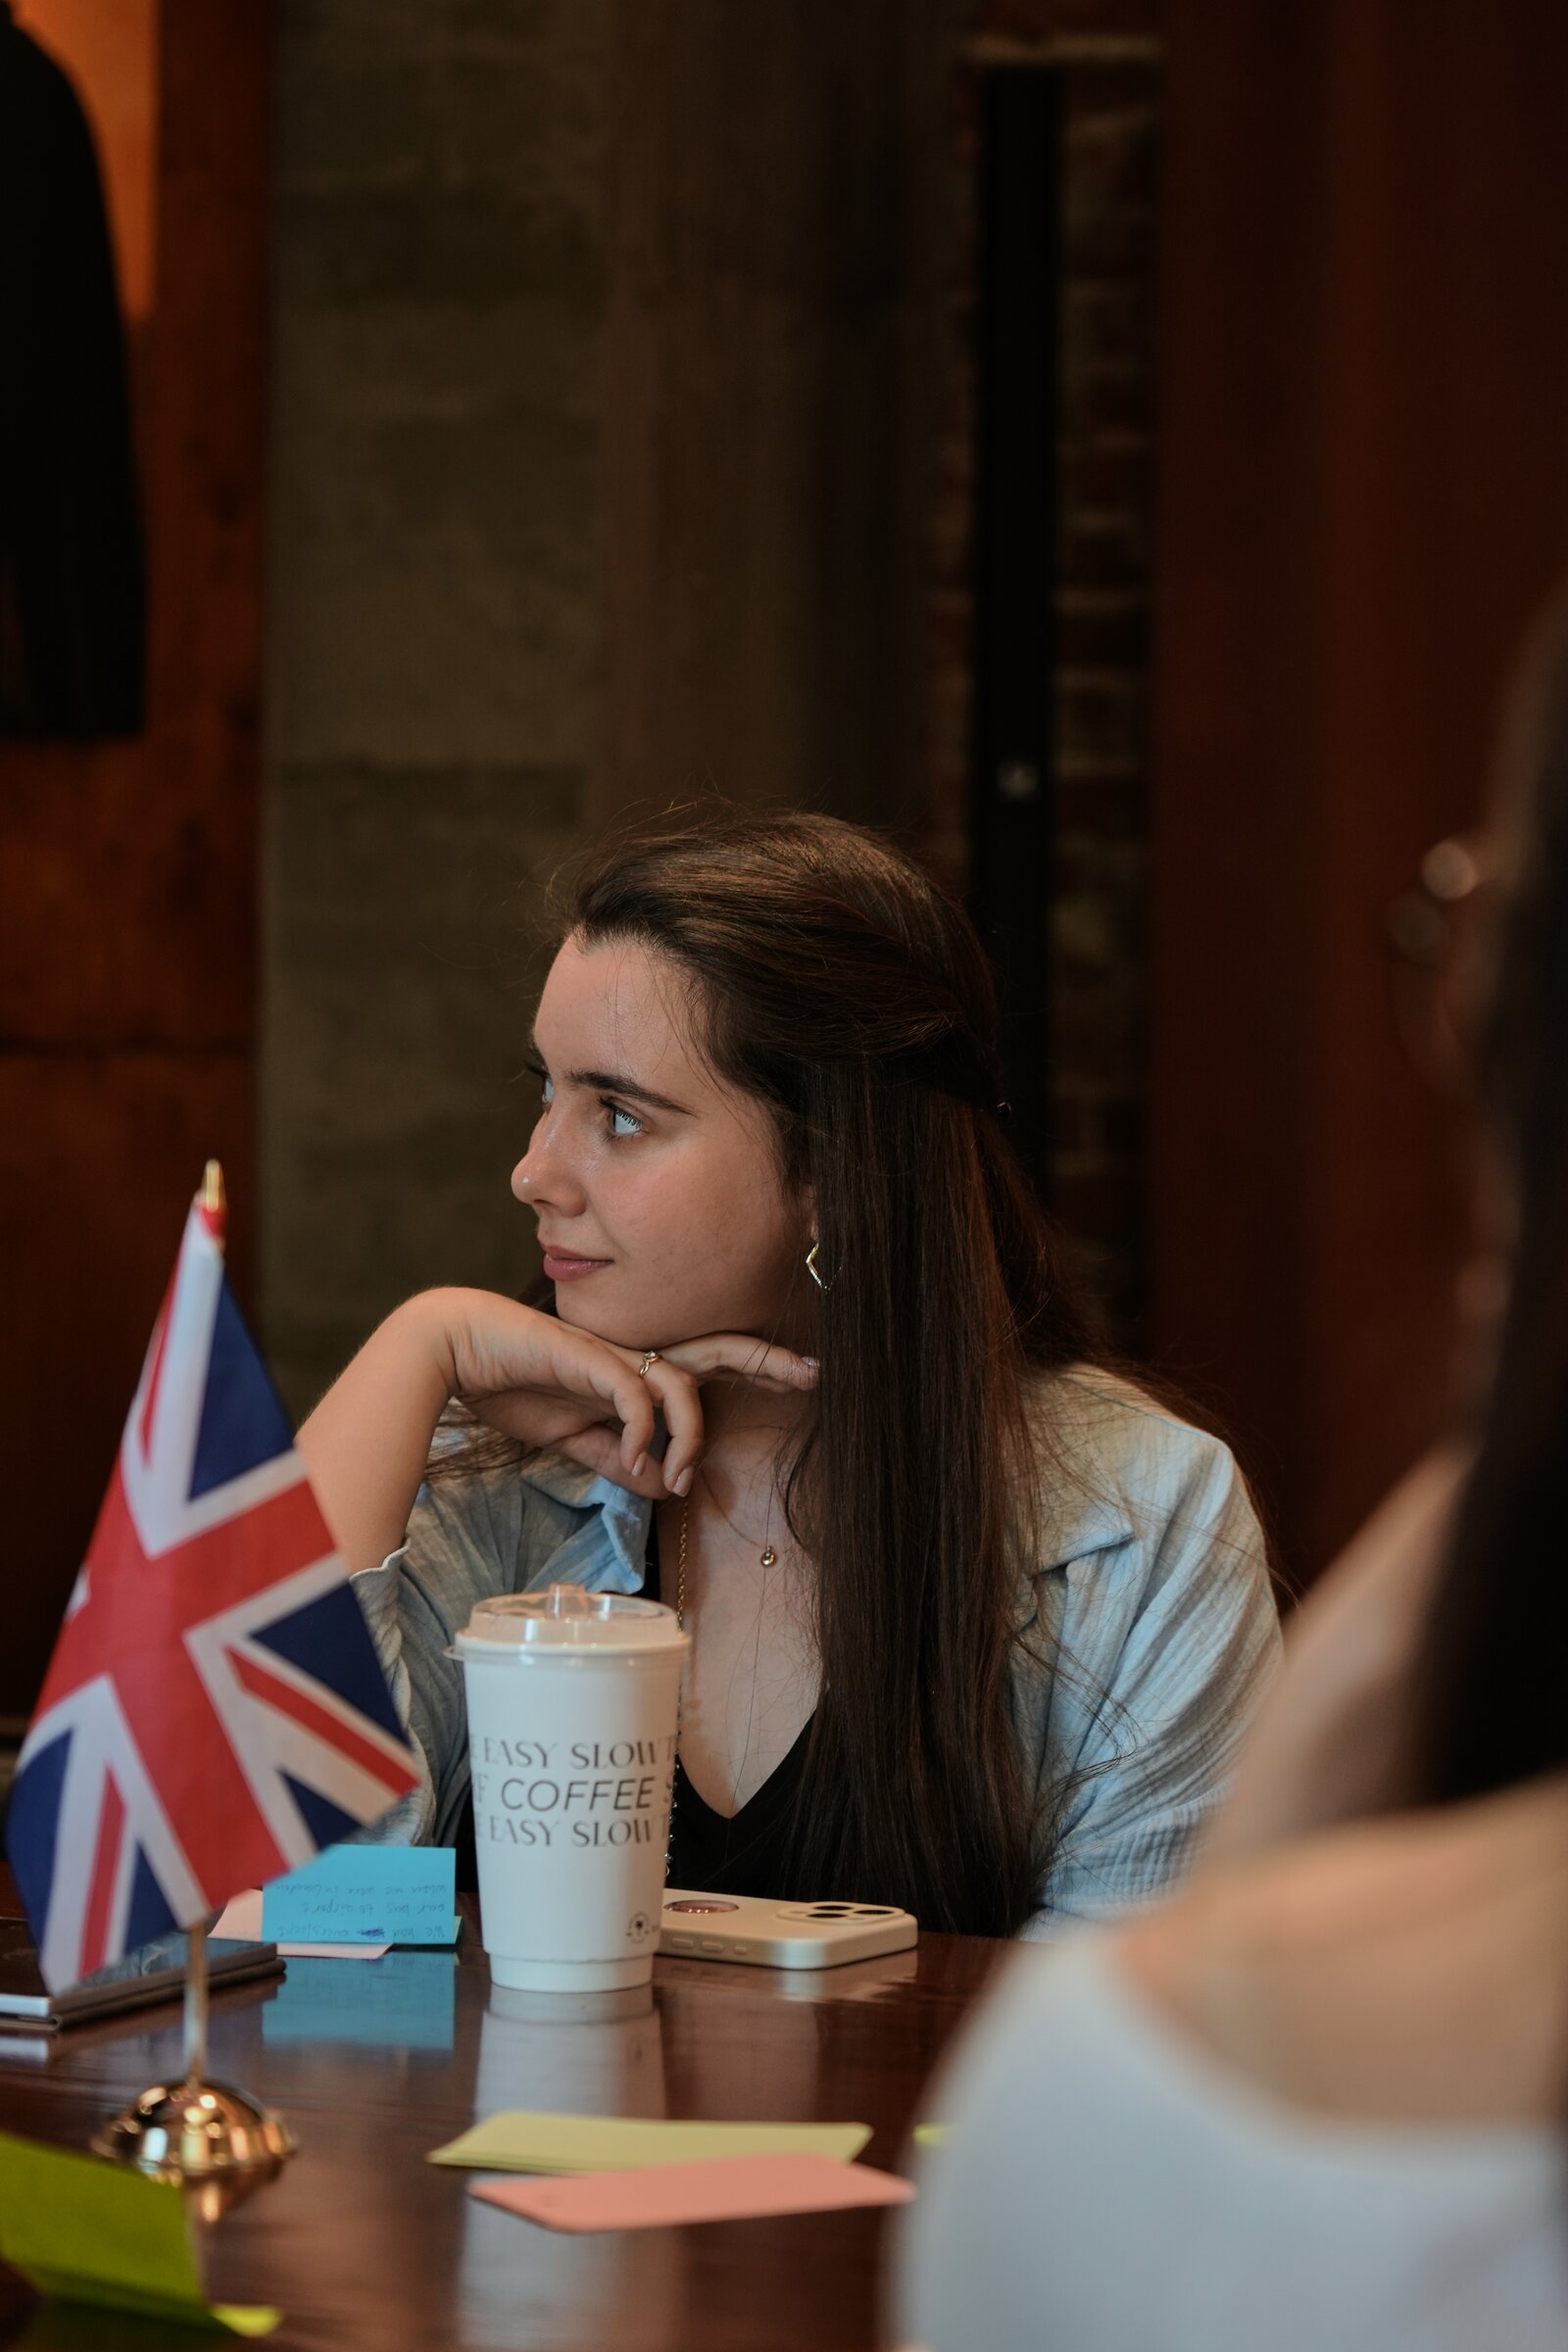
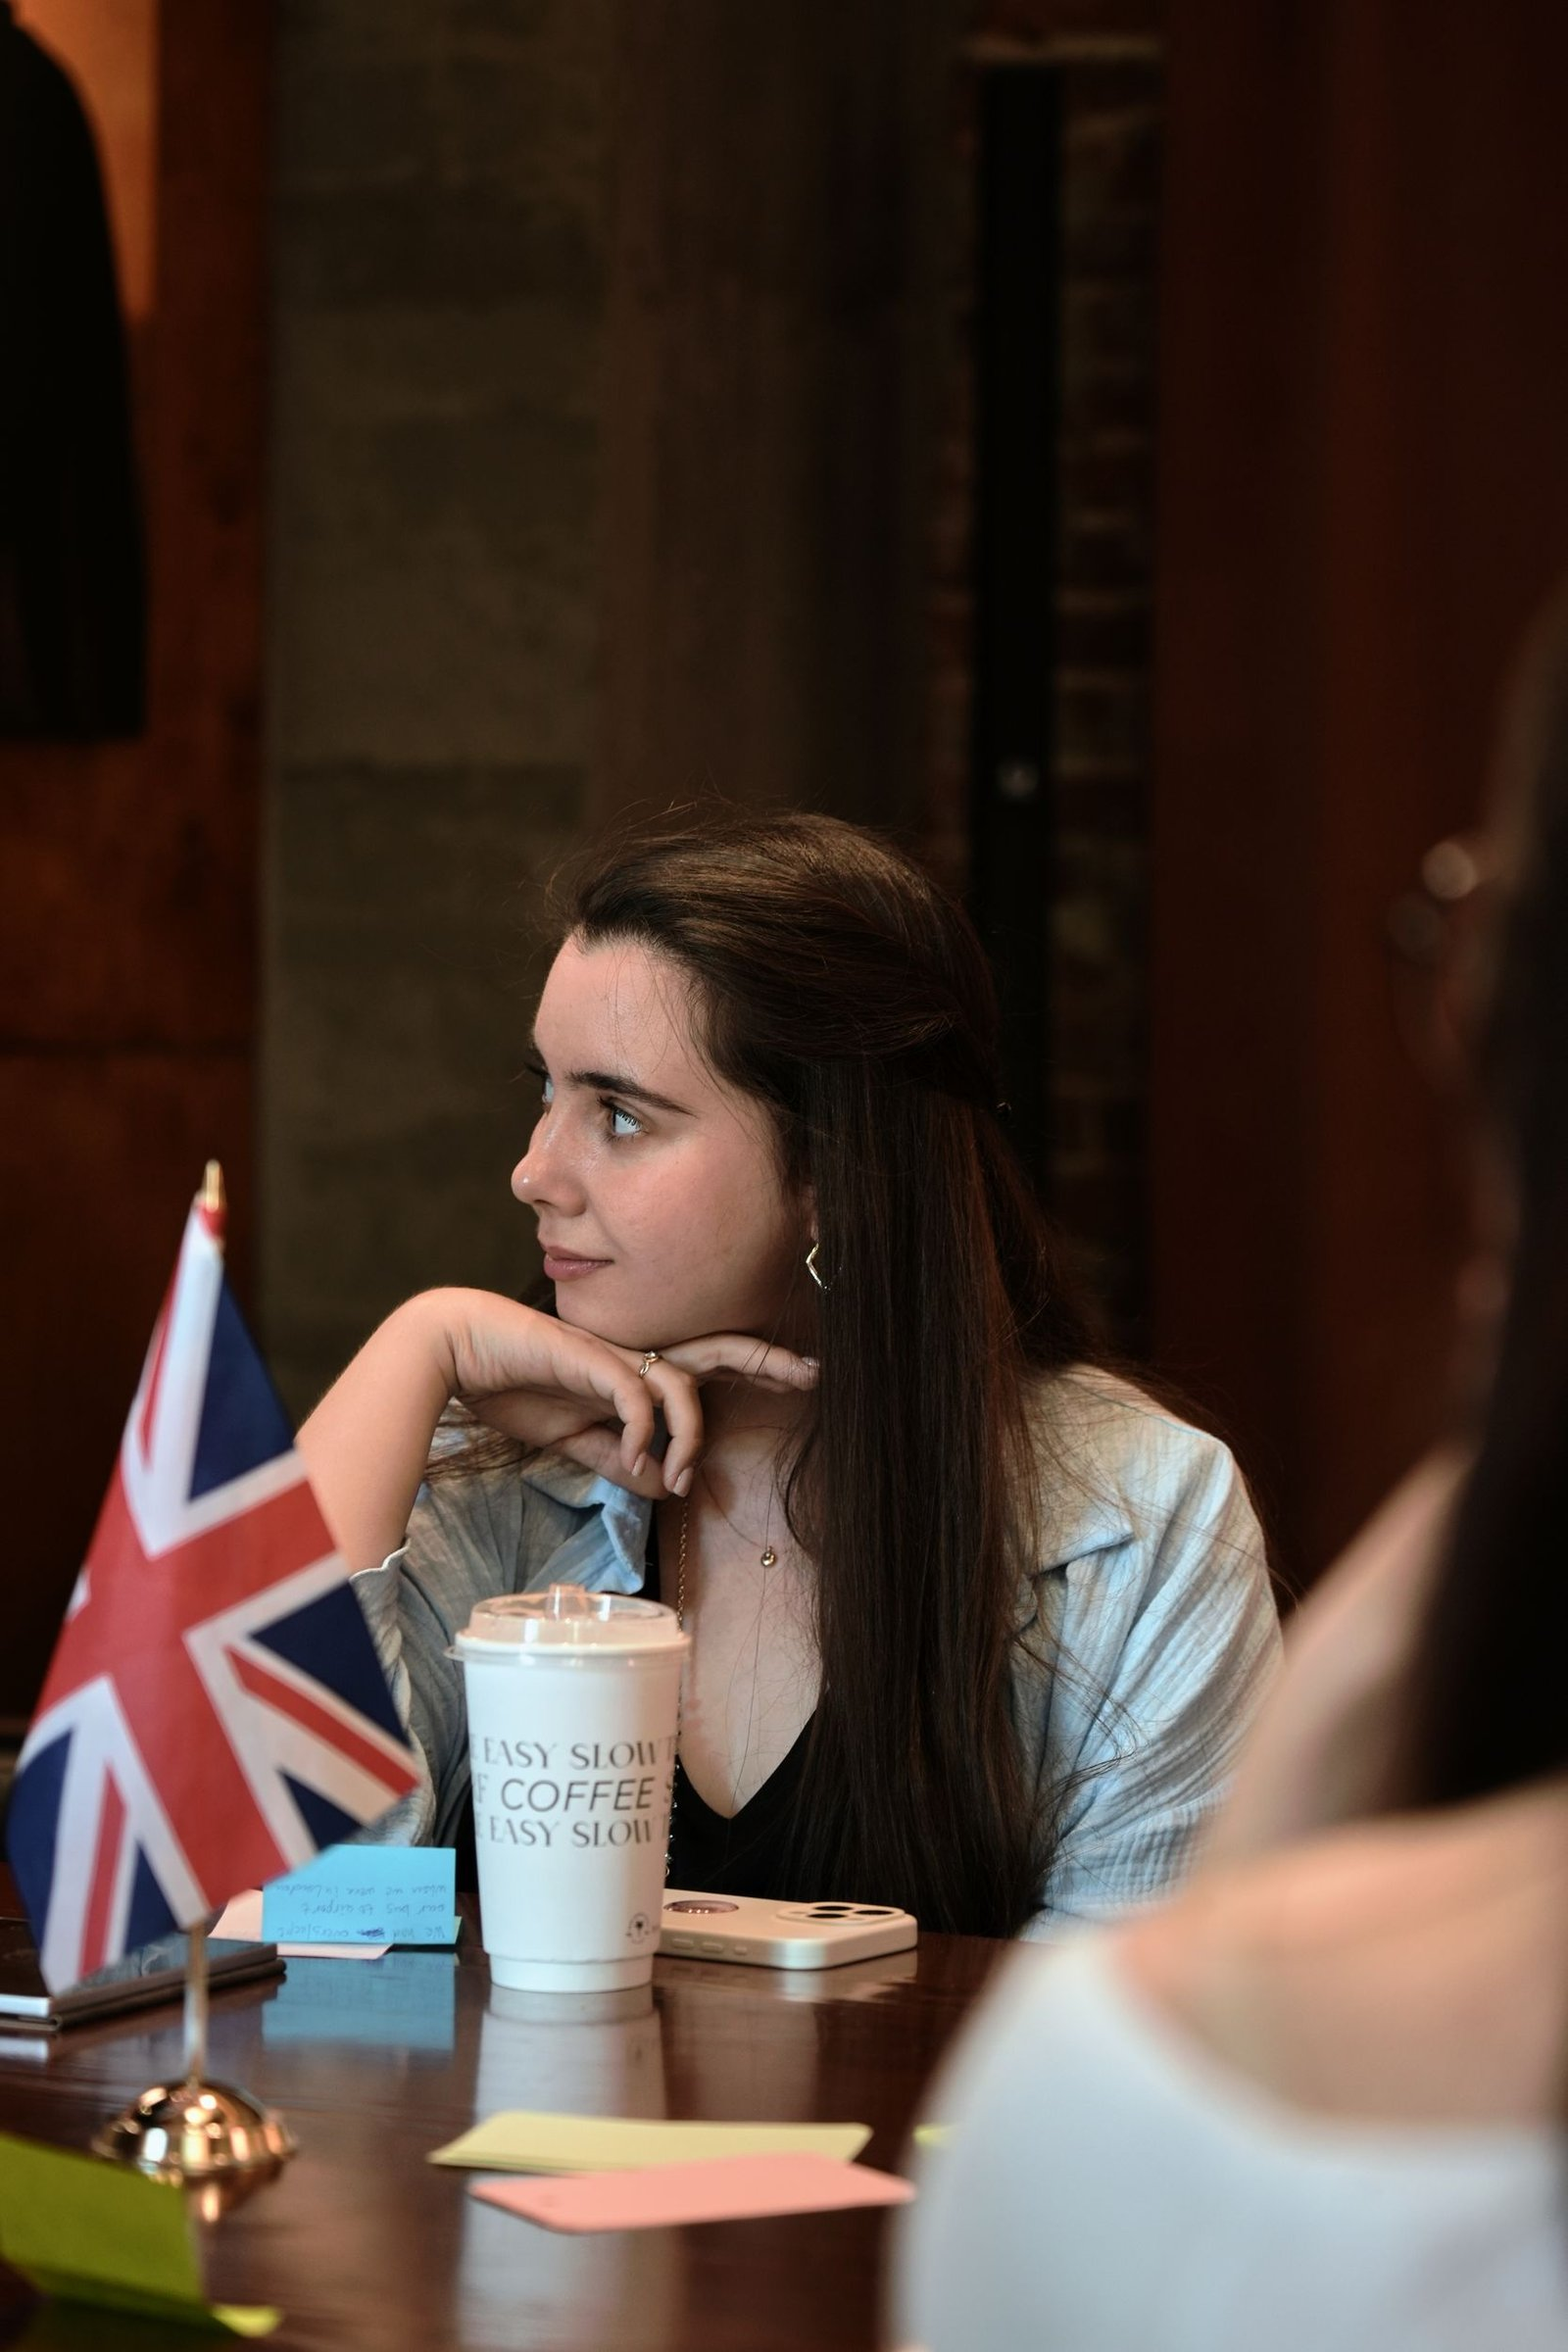
Фото: новые версии 20 снимков и 16 новых кадров в репортажной съёмке
Заменены оптимизированными версиями из web_sajt_2026-11-08 фото съёмки меню,
разговорного клуба, картинга, музыкантов и 4 слайда главной.
Добавлены: посадка леса (11), разговорный клуб, картинг, музыканты (2), маяк.

Claude-Session: https://claude.ai/code/session_01KaQUDqdcJCujpvzkjh3znJ

diff --git a/src/content/services/reportazhnaya-semka.md b/src/content/services/reportazhnaya-semka.md
@@ -18,10 +18,12 @@ photos:
   - { src: ../../assets/services/reportazhnaya-semka/razgovornyy-klub-1.jpg, alt: 'Участник разговорного клуба за столом' }
   - { src: ../../assets/services/reportazhnaya-semka/razgovornyy-klub-2.jpg, alt: 'Участница встречи слушает собеседника' }
   - { src: ../../assets/services/reportazhnaya-semka/razgovornyy-klub-3.jpg, alt: 'Ребёнок на мероприятии' }
+  - { src: ../../assets/services/reportazhnaya-semka/razgovornyy-klub-4.jpg, alt: 'Участница разговорного клуба улыбается' }
   - { src: ../../assets/services/reportazhnaya-semka/portret-uchastnika-chb.jpg, alt: 'Чёрно-белый портрет участника мероприятия' }
   - { src: ../../assets/services/reportazhnaya-semka/karting-1.jpg, alt: 'Мероприятие в картинг-клубе' }
   - { src: ../../assets/services/reportazhnaya-semka/karting-2.jpg, alt: 'Заезд на картингах' }
   - { src: ../../assets/services/reportazhnaya-semka/karting-3.jpg, alt: 'Девочка за рулём карта' }
+  - { src: ../../assets/services/reportazhnaya-semka/karting-4.jpg, alt: 'Гонщик в неоновом свете картинг-клуба' }
   - { src: ../../assets/services/reportazhnaya-semka/detskiy-prazdnik-karting-1.jpg, alt: 'Детский праздник в картинг-клубе' }
   - { src: ../../assets/services/reportazhnaya-semka/detskiy-prazdnik-karting-2.jpg, alt: 'Дети в шлемах перед заездом' }
   - { src: ../../assets/services/reportazhnaya-semka/detskiy-prazdnik-karting-3.jpg, alt: 'Ребёнок на детском карте' }
@@ -31,12 +33,26 @@ photos:
   - { src: ../../assets/services/reportazhnaya-semka/muzykanty-3.jpg, alt: 'Портрет музыкантов на сцене' }
   - { src: ../../assets/services/reportazhnaya-semka/muzykanty-4.jpg, alt: 'Пианист у рояля' }
   - { src: ../../assets/services/reportazhnaya-semka/muzykanty-5.jpg, alt: 'Рояль и скрипка на сцене' }
+  - { src: ../../assets/services/reportazhnaya-semka/muzykanty-6.jpg, alt: 'Концерт: скрипачка и пианист на сцене' }
+  - { src: ../../assets/services/reportazhnaya-semka/muzykanty-7.jpg, alt: 'Скрипачка на сцене у рояля' }
   - { src: ../../assets/services/reportazhnaya-semka/detskaya-futbolnaya-komanda.jpg, alt: 'Детская футбольная команда' }
   - { src: ../../assets/services/reportazhnaya-semka/manezh-1.jpg, alt: 'Крытый футбольный манеж' }
   - { src: ../../assets/services/reportazhnaya-semka/manezh-2.jpg, alt: 'Трибуны футбольного манежа' }
   - { src: ../../assets/services/reportazhnaya-semka/manezh-3.jpg, alt: 'Поле и трибуны манежа' }
   - { src: ../../assets/services/reportazhnaya-semka/manezh-4.jpg, alt: 'Футбольный манеж изнутри' }
   - { src: ../../assets/services/reportazhnaya-semka/manezh-5.jpg, alt: 'Разметка поля в манеже' }
+  - { src: ../../assets/services/reportazhnaya-semka/posadka-lesa-1.jpg, alt: 'Экологическая акция: посадка леса' }
+  - { src: ../../assets/services/reportazhnaya-semka/posadka-lesa-2.jpg, alt: 'Участник акции с лопатой на посадке леса' }
+  - { src: ../../assets/services/reportazhnaya-semka/posadka-lesa-3.jpg, alt: 'Саженец сосны в руке волонтёра' }
+  - { src: ../../assets/services/reportazhnaya-semka/posadka-lesa-4.jpg, alt: 'Волонтёр высаживает саженец' }
+  - { src: ../../assets/services/reportazhnaya-semka/posadka-lesa-5.jpg, alt: 'Посадка сосен в поле' }
+  - { src: ../../assets/services/reportazhnaya-semka/posadka-lesa-6.jpg, alt: 'Молодая сосна после посадки' }
+  - { src: ../../assets/services/reportazhnaya-semka/posadka-lesa-7.jpg, alt: 'Ведро с саженцами на акции' }
+  - { src: ../../assets/services/reportazhnaya-semka/posadka-lesa-8.jpg, alt: 'Участник акции с ведром саженцев' }
+  - { src: ../../assets/services/reportazhnaya-semka/posadka-lesa-9.jpg, alt: 'Интервью с участником экологической акции' }
+  - { src: ../../assets/services/reportazhnaya-semka/posadka-lesa-10.jpg, alt: 'Команда волонтёров на посадке леса' }
+  - { src: ../../assets/services/reportazhnaya-semka/posadka-lesa-11.jpg, alt: 'Ящик с саженцами сосны' }
+  - { src: ../../assets/services/reportazhnaya-semka/zagorodnyy-klub-mayak.jpg, alt: 'Маяк на территории загородного клуба' }
 faq:
   - q: 'Сколько стоит репортажная съёмка?'
     a: 'Оплата почасовая, минимальный заказ — 2 часа. Точную стоимость рассчитаю по формату, длительности и месту мероприятия.'
